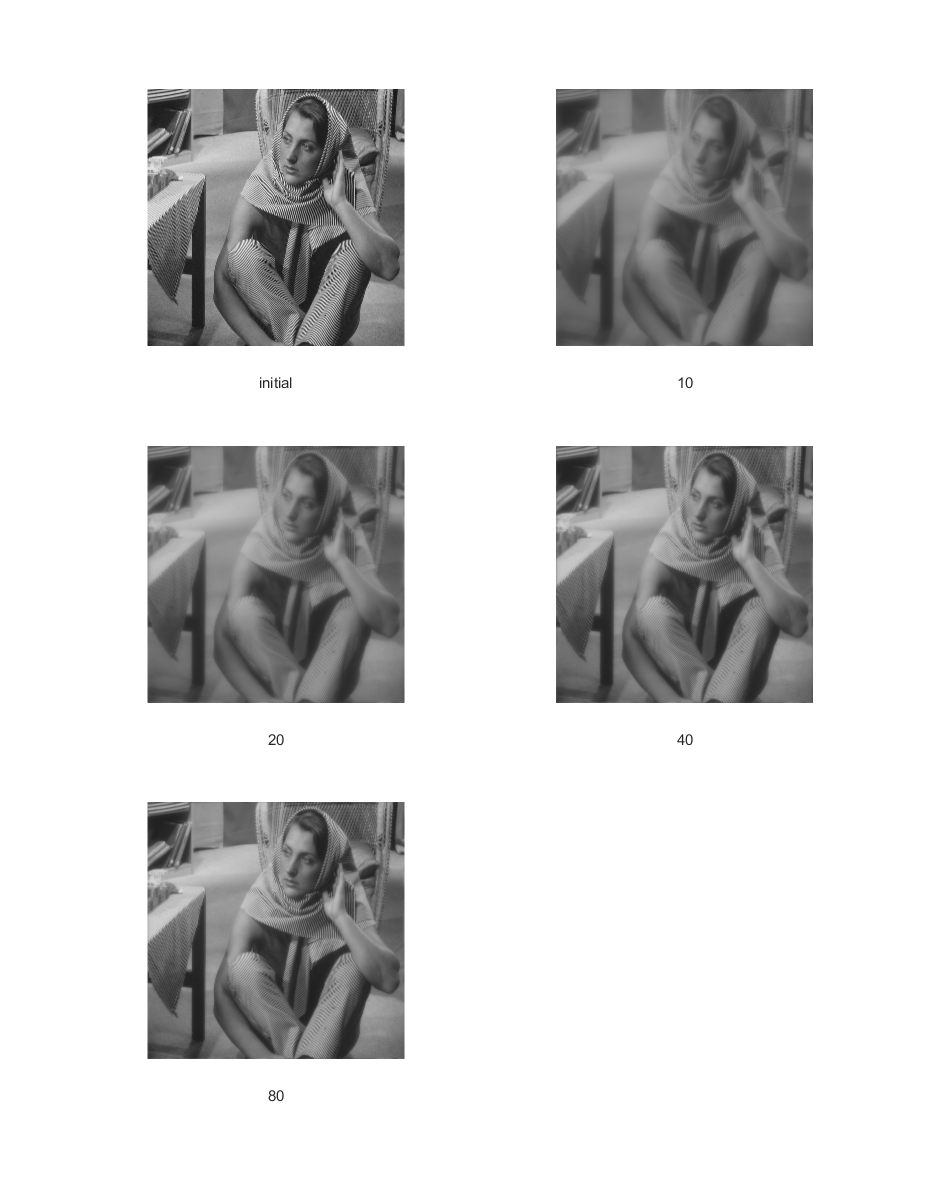
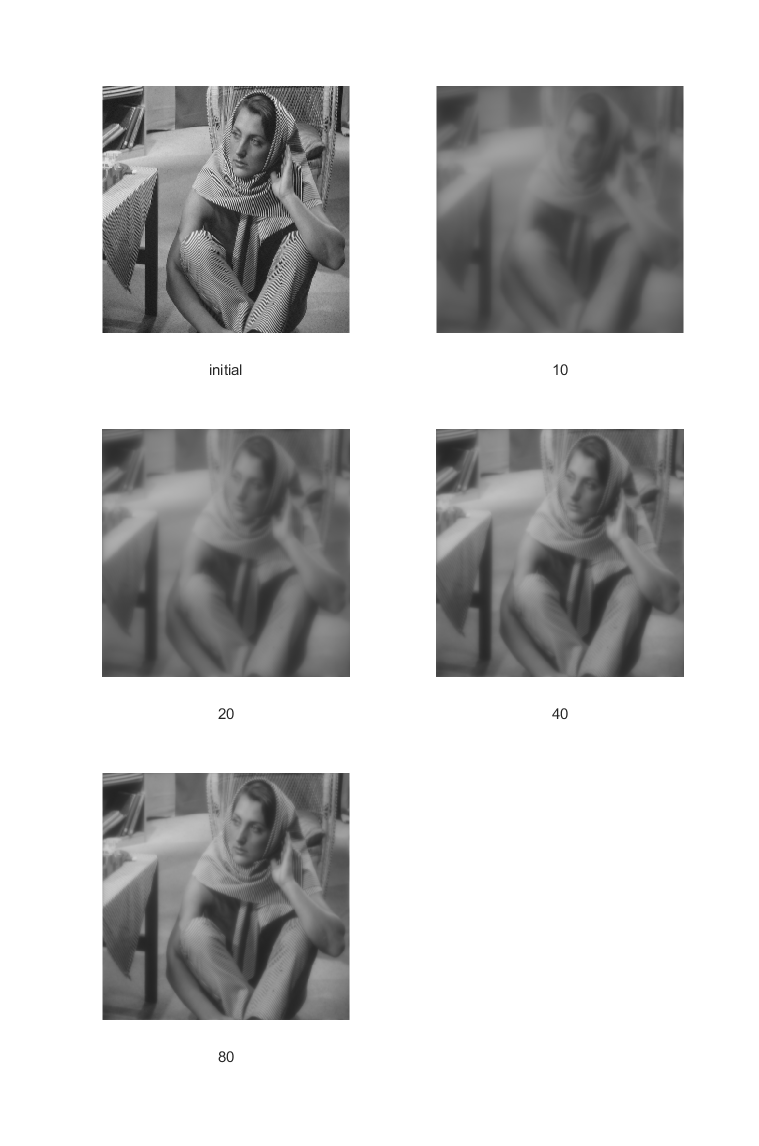
change rank to 2 * rank

diff --git a/Homomorphic_Filtering/Butterworth_Filter.m b/Homomorphic_Filtering/Butterworth_Filter.m
@@ -18,7 +18,7 @@ D = sqrt(U.^2+V.^2);
 I = (-1).^(U + V);
 
 
-H = 1./((D./D0 + 1).^rank);
+H = 1./((D./D0 + 1).^(2 * rank));
 
 filter_img = Filter(img.*I, H).*I;
 
